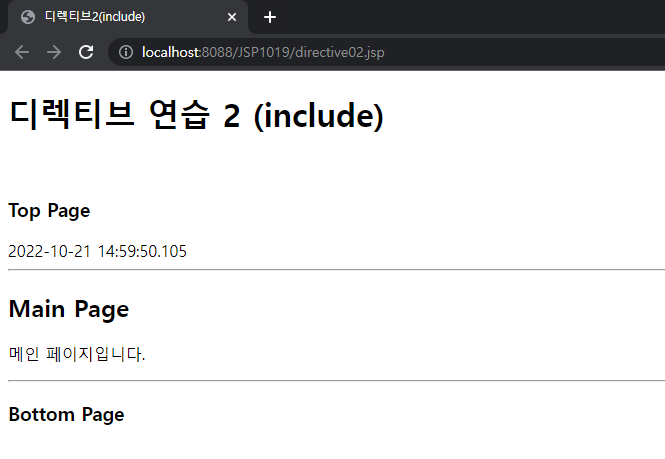
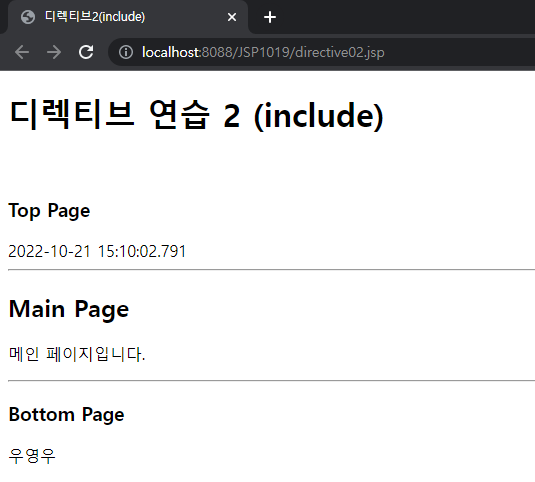
jsp 포스트3 수정

diff --git a/_posts/2022-10-21-jsp3-directive.md b/_posts/2022-10-21-jsp3-directive.md
@@ -108,7 +108,7 @@ JSP Directive(디렉티브) 알아보기
 <body>
 	<h3>Bottom Page</h3>
 	<%-- 같은 페이지에 있어 실행은 되지만, 에러 표시로는 나타남. --%>
-	<%//=name %>
+	<%=name %>
 </body>
 </html>
 ```
